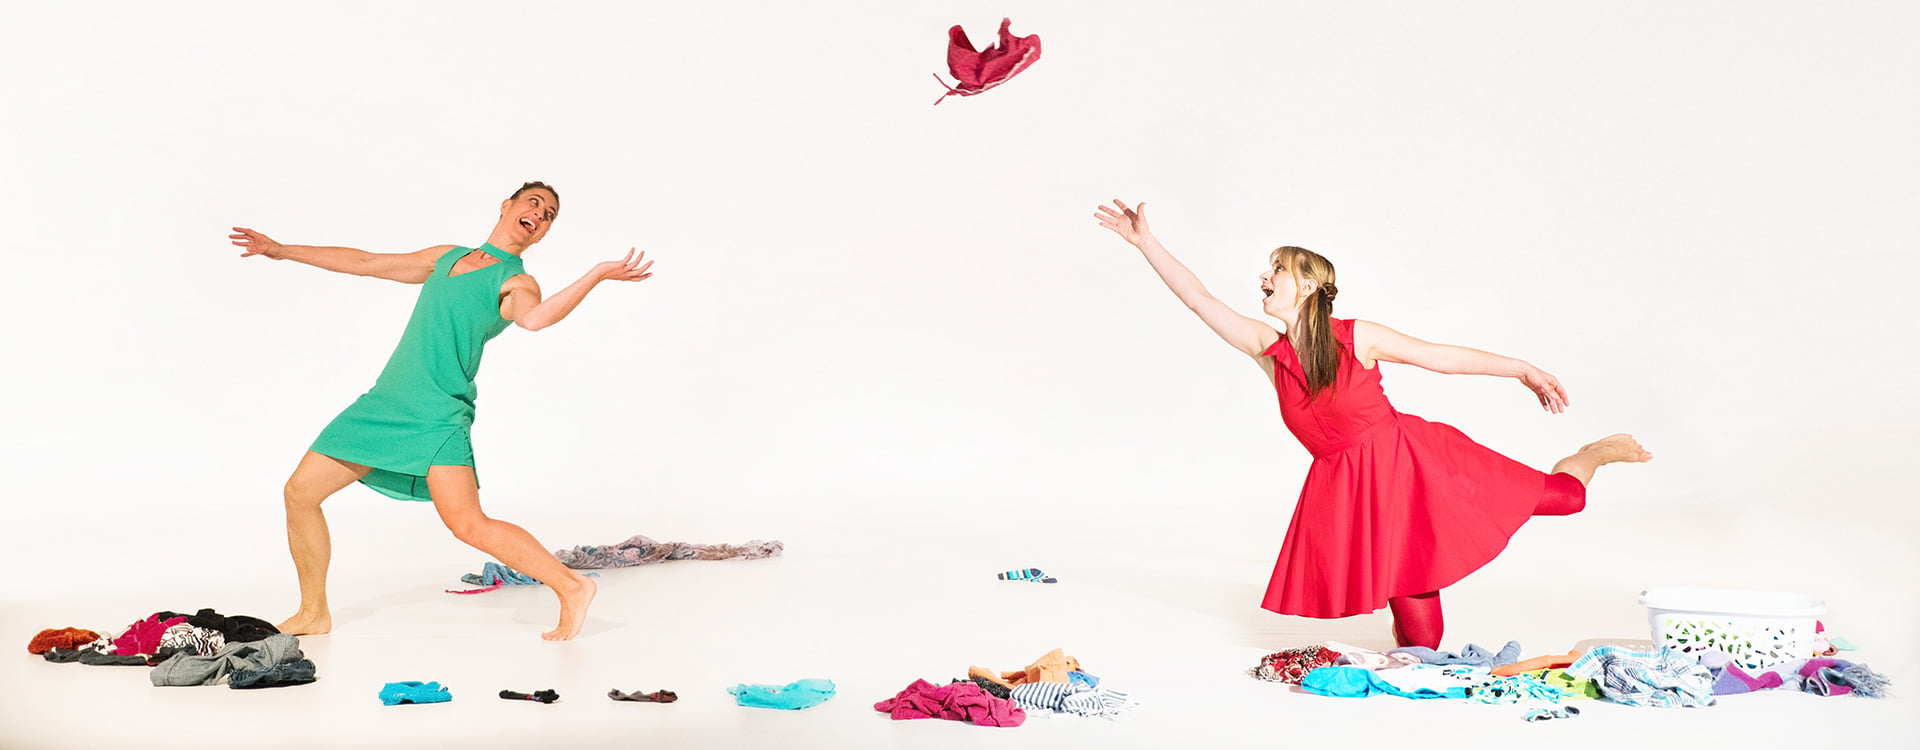
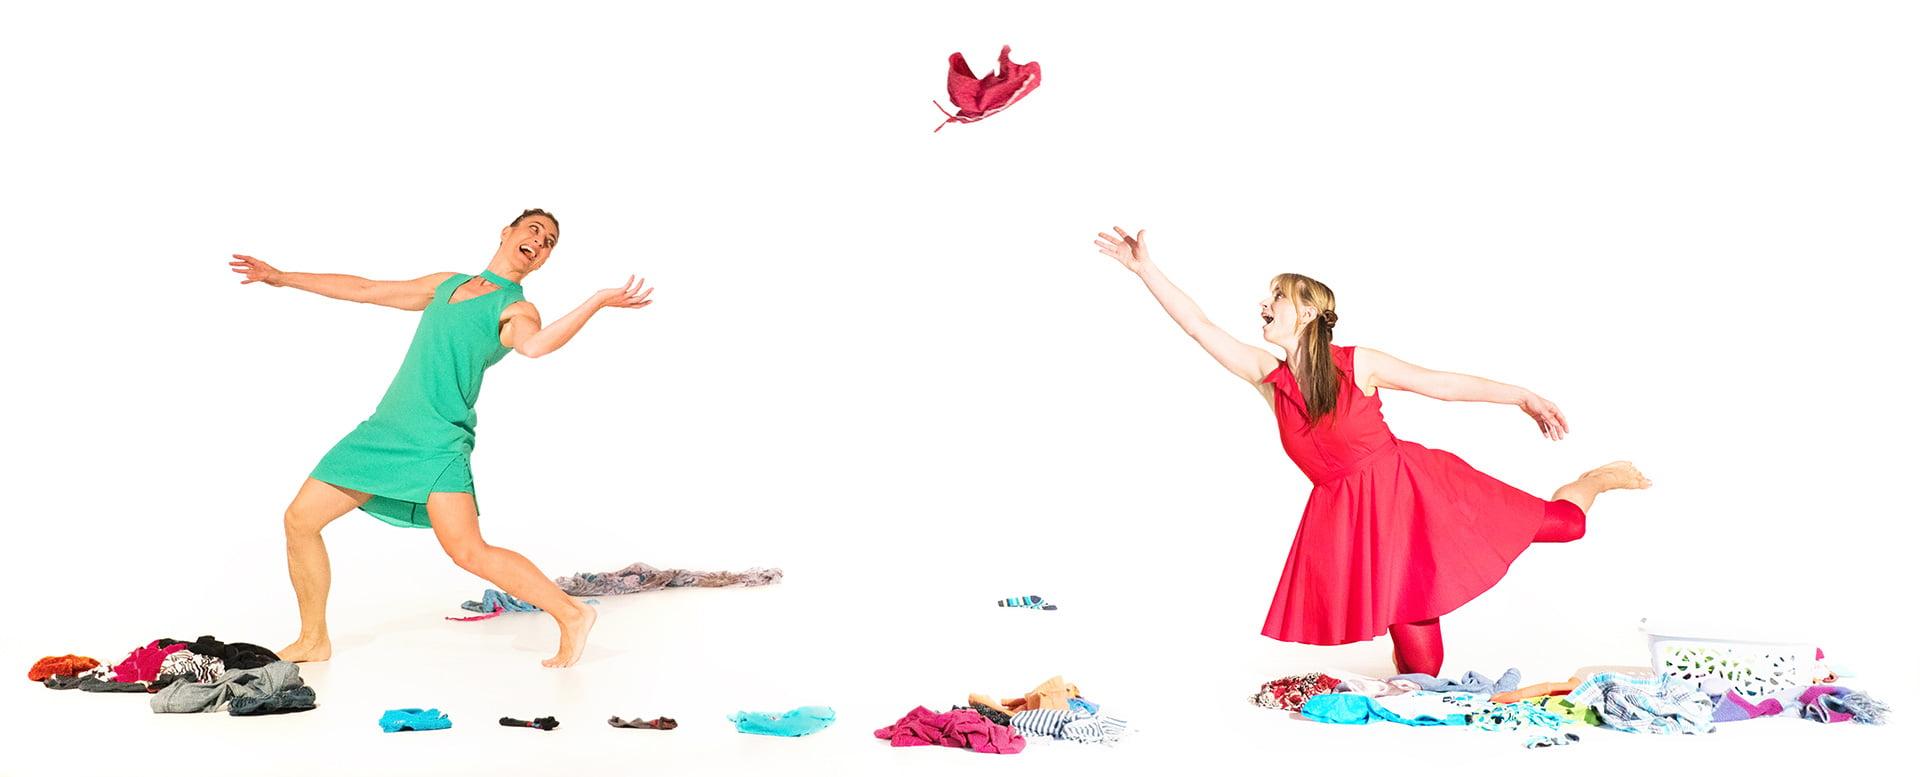
Update SPUR page:
* SPUR: Terminblock Sonntag Morgen rausgenommen
* Getanzte Vesper: Galeriebild #4 bei Pfingstvesper rausgenommen
* SPUR: Stückbeschreibung aktualisiert
* SPUR: Künstlerbeschreibungen aktualisiert und gemeinsames Portraitfoto
hinzugefügt (ich gehe davon aus, das war so gemeint?)
* SPUR: Wäschebild ausgetauscht
* SPUR: Bild Doro + Alexandra am Gong hinzugefügt (Austausch gegen das
zweimalige Tanzbild geht nicht so einfach wegen des Bildformats)
* Workshops: Plakatbild Getanztes Abendgebet eingefügt (der Text war ja
schon so da, da hat sich wohl nichts verändert)

diff --git a/projekte/spur/index.html b/projekte/spur/index.html
@@ -25,12 +25,12 @@ permalink: /projekte/spur/
             <time class="date" itemprop="startDate" datetime="2018-02-24 20:00">Sa, 24. Feb 2018 20:00 Uhr</time>
             <span class="venue" itemprop="location">KUZ Kreuz, Fulda</span>
           </div>
-          <div class="event-info">
+          <!--div class="event-info">
             <i class="fa fa-calendar-o"></i>
             <h3>Sonntag Morgen</h3>
             <time class="date" itemprop="startDate" datetime="2018-02-25 11:30">So, 25. Feb 2018 11:30 Uhr</time>
             <span class="venue" itemprop="location">KUZ Kreuz, Fulda</span>
-          </div>
+          </div-->
           <div class="event-info">
             <i class="fa fa-calendar-o"></i>
             <h3>Sonntag Nachmittag</h3>
@@ -49,50 +49,56 @@ permalink: /projekte/spur/
   <div class="container">
     <div class="row">
       <div class="col-lg-12">
-        <p>
-          Das Stück, mit dem Titel <strong>SPUR – ein Tanztheaterkonzert</strong>, recherchiert, exploriert und er-“spürt“ auf vielfältige Weise, wie sich tänzerisch, musikalisch Spuren legen, verwischen, lesen und verfolgen lassen.</p>
-          <p>Die Zuschauer dürfen wie Detektive von Anfang an verfolgen, wie Spuren in die Irre führen oder zu ganz unerwartetem Ziel. Sie können sich mitamüsieren, über die banalen Alltagspuren, die jeder kennt und lieber nicht findet, wie benutzte, liegengelassene Socken, Spuren, die man täglich zu beseitigen versucht und die sich doch immer wieder aufdrängen.</p>
-          <p>Wir erleben, wie schwer es ist – einmal eingespurt – sich auf eine neue Spur setzen zu lassen und wie atemlos uns die ständig geforderte Mehrspurigkeit unseres Lebens macht. Und kommt es nicht einer persönlichen Katastrophe gleich, die eventuell richtig wichtige, heiße Spur zu verpassen, bzw. diese im Spurenwirrwarr überhaupt erst ausfindig zu machen?</p>
-          <p>Es wird eine Welt betreten, in der Hoffen – „endlich die Spur gefunden“, Bangen – „letzte Spur?“, Gefühlschaos – „Spur der Verwüstung“, bis hin zu einem „spurlosen Verschwinden“, Spannung und innere Beteiligung garantieren.</p>
+        <p>SPUR – ein Tanztheaterkonzert, recherchiert, exploriert und er-„spürt“ auf vielfältige Weise, wie sich tänzerisch, musikalisch Spuren legen, verwischen, lesen und verfolgen lassen.</p>
+        <p>SPUR: In vier Szenen versteckt sie sich, springt sie uns an, lockt sie uns, verflüchtigt sie sich, führt sie in die Irre oder zu ganz unerwartetem Ziel.</p>
+      </div>
+    </div>
+    <div class="row">
+      <div class="col-sm-6 col-lg-8">
+        <p>Jeder kennt den täglichen Kampf die banalen Alltagspuren zu beseitigen. Wer mag sie finden, die liegengelassenen Socken, das benutzte Taschentuch oder die ersten grauen Haare? Es bleibt nur die Wahl zwischen Wahnsinn oder Ignoranz, Verdrängen oder Spiel. </p>
+        <p>Wie schwer ist doch – einmal eingespurt – sich auf eine neue Spur setzen zu lassen. Wie atemlos macht uns die ständig geforderte Mehrspurigkeit unseres Lebens. Und kommt es nicht einer persönlichen Katastrophe gleich, die eventuell richtig wichtige, heiße Spur zu verpassen, bzw. diese im Spurenwirrwarr überhaupt erst ausfindig zu machen? </p>
+      </div>
+      <div class="col-sm-6 col-lg-4">
+        <img src="{{ 'images/tanz-und-gong_medium.jpg' | prepend: page.permalink | relative_url }}" class="img-rounded">
       </div>
     </div>
     <div class="row">
       <div class="col-sm-6 col-lg-4">
-        <img src="{{ 'socke-hand_medium.jpg' | prepend: '/projekte/spur/images/' | relative_url }}" class="img-rounded">
+        <img src="{{ 'images/socke-hand_medium.jpg' | prepend: page.permalink | relative_url }}" class="img-rounded">
       </div>
       <div class="col-sm-6 col-lg-8">
-        <p>Jede Szene hinterlässt Spuren im Bühnenraum, so dass am Ende des Stückes alle Spuren zurückverfolgt werden können.</p>
-        <p>Stilistisch fließen verschiedene Mittel des Tanztheaters und Bewegungstheaters ebenso wie der Musik und des Gesangs mit ein. Dabei verschmelzen die Grenzen zwischen Bewegung und Klang. Klang ist Bewegung. Bewegung ist Klang.
-        Auf die Spur gesetzt?</p>
+        <p>Es wird eine Welt betreten, in der Hoffen – „endlich die Spur gefunden“, Bangen – „letzte Spur?“, Gefühlschaos – „Spur der Verwüstung“, bis hin zu einem „spurlosen Verschwinden“, Spannung und innere Beteiligung garantieren.</p>
+        <p>Stilistisch fließen verschiedene Mittel des Tanztheaters und Bewegungstheaters ebenso wie der Musik und des Gesangs mit ein. Dabei verschmelzen die Grenzen zwischen Bewegung und Klang. Klang ist Bewegung. Bewegung ist Klang.</p>
+        <p>Eine spannende Suche – oder eher Flucht – verspricht diese Tanz-Klang-Performance.</p>
       </div>
     </div>
-    <div class="row">
+    <!--div class="row">
       <div class="col-lg-12">
-        <a href="{{ '/flyer.pdf' | prepend: page.permalink | relative_url }}" class="btn btn-primary">Flyer downloaden</a>
+        <a href="{{ 'flyer.pdf' | prepend: page.permalink | relative_url }}" class="btn btn-primary">Flyer downloaden</a>
       </div>
-    </div>
+    </div-->
   </div>
 </section>
 
-<section class="cover" class="parallax-window" data-parallax="scroll" data-image-src="/projekte/spur/images/socke.jpg" >
+<section class="cover" class="parallax-window" data-parallax="scroll" data-image-src="{{ 'images/socke.jpg' | prepend: page.permalink | relative_url }}" >
 </section>
 
 <section>
   <div class="container">
     <div class="row">
       <div class="col-lg-12">
-        <img src="{{ 'wurf.jpg' | prepend: '/projekte/spur/images/' | relative_url }}" class="img-rounded">
+        <img src="{{ 'images/wurf.jpg' | prepend: page.permalink | relative_url }}" class="img-rounded">
       </div>
     </div>
     <div class="row">
       <div class="col-xs-4">
-        <img src="{{ 'sprung_medium.jpg' | prepend: '/projekte/spur/images/' | relative_url }}" class="img-rounded">
+        <img src="{{ 'images/sprung_medium.jpg' | prepend: page.permalink | relative_url }}" class="img-rounded">
       </div>
       <div class="col-xs-4">
-        <img src="{{ 'spritz_medium.jpg' | prepend: '/projekte/spur/images/' | relative_url }}" class="img-rounded">
+        <img src="{{ 'images/spritz_medium.jpg' | prepend: page.permalink | relative_url }}" class="img-rounded">
       </div>
       <div class="col-xs-4">
-        <img src="{{ 'wrap_medium.jpg' | prepend: '/projekte/spur/images/' | relative_url }}" class="img-rounded">
+        <img src="{{ 'images/wrap_medium.jpg' | prepend: page.permalink | relative_url }}" class="img-rounded">
       </div>
     </div>
   </div>
@@ -107,13 +113,18 @@ permalink: /projekte/spur/
     </div>
 
     <div class="row">
-      <div class="col-lg-8">
+      <div class="col-sm-12 text-center">
+        <img src="{{ 'images/künstlerinnen.jpg' | prepend: page.permalink | relative_url }}" style="max-height: 20em;" class="img-rounded img-responsive-width">
+      </div>
+    </div>
+    <div class="row">
+      <div class="col-md-6">
         <p>
-          <strong>Dorothée Bretz</strong> absolvierte ihr Studium für Bühnentanz an der Hochschule für Musik und Darstellende Kunst in Frankfurt und für Spiel-Musik-Tanz/ Bewegungstheater, Tanzpädagogik und -improvisation an der Deutschen Sporthochschule Köln, sowie Physical Theatre an der Desmond Jones School for Mime, London. Sie erhielt Engagements an der Frankfurter Oper, Eternia Danstheater Schweden und der Xaris Dance Company internat., bei der sie auch Laila Clematide und Deborah Smith-Wicke kennenlernte und auch selbst anfing zu choreographieren. Kunstübergreifende Projekte zu entwickeln, reizt sie besonders wie z.B. bei der multimedialen Tanz- und Theaterproduktion „Vrijgekocht“ in den Niederlanden oder der „Getanzten Vesper im Advent“ hier in Fulda. Sie unterrichtet Tanz in Schulen und gibt Workshops im In- und Ausland. 2013 gründete sie tanzblick Freies Tanztheater als einen Schritt Tanztheater und zeitgenössischen Tanz in der Region mehr sichtbar werden zu lassen.
+          <strong>Dorothée Bretz</strong> absolvierte ihr Studium für Bühnentanz an der Hochschule für Musik und Darstellende Kunst in Frankfurt und für Spiel-Musik-Tanz/ Bewegungstheater, Tanzpädagogik und -improvisation an der Deutschen Sporthochschule Köln, sowie Physical Theatre an der Desmond Jones School for Mime, London. Sie erhielt Engagements an der Frankfurter Oper, Eternia Danstheater Schweden und der Xaris Dance Company internat., bei der sie anfing eigene Choreographien zu entwickeln. Kunstübergreifende Projekte reizen sie besonders wie z.B. bei der multimedialen Tanz- und Theaterproduktion „Vrijgekocht“ in den Niederlanden oder der „Getanzten Vesper im Advent“ hier in Fulda. Sie unterrichtet Tanz in Schulen und gibt Workshops im In- und Ausland. 2013 gründete sie tanzblick Freies Tanztheater.
         </p>
       </div>
-      <div class="col-lg-4 text-center">
-        <img src="{{ '/dorothee-bretz.jpg' | prepend: '/images/person' | relative_url }}" style="max-height: 20em;" class="img-rounded img-responsive-width">
+      <div class="col-md6">
+        <p><strong>Alexandra Pesold</strong> studierte an der Universität „Mozarteum“ Salzburg und absolvierte mit Mag. Art. für Musik und Tanz. Seit vielen Jahren beschäftigt sie sich intensiv mit Gesang, Klang und Musik aus verschiedenen Kulturen und Epochen. Ihre Freude am Gestalten entfaltet sich in der Verbindung von Stimme, Bewegung und Klang und dem Zusammenspiel von Komposition und Improvisation. Mit dem internationalen Obertonvokalensemble „Harmonic Connection“ gastierte sie u.a. in Deutschland, Tschechien und Österreich. Als Solistin und in Ensembles konzertiert sie deutschlandweit und unterrichtet u.a. bei den Fuldaer Chören am Dom.</p>
       </div>
     </div>
   </div>
@@ -122,12 +133,9 @@ permalink: /projekte/spur/
 <section class="bg-light-gray">
   <div class="container">
     <div class="row">
-      <div class="col-lg-8">
-        <p><strong>Alexandra Pesold</strong></p>
-      </div>
-      <div class="col-lg-4 text-center">
-        <img src="{{ '' | prepend: '/projekte/spur' | relative_url }}" class="img-rounded img-responsive-width">
-      </div>
+      <!--div class="col-lg-4 text-center">
+        <img src="{{ '/alexandra-pesold.jpg' | prepend: '/projekte/spur' | relative_url }}" class="img-rounded img-responsive-width">
+      </div-->
     </div>
   </div>
 </section>

diff --git a/workshops/index.html b/workshops/index.html
@@ -46,7 +46,7 @@ path: /workshops
         <p>Anmeldungen per E-Mail sind möglich unter: <a href="mailto:Martin-Denise@gmx.de">Martin-Denise@gmx.de</a> oder telefonisch unter: 06659 / 619697.</p>
       </div>
       <div class="col-lg-4">
-        <img src="{{ '/jugendliche-getanzte-vesper_medium.jpg' | prepend: '/images' | prepend: page.path | relative_url }}" itemprop="image" class="cover-title-image">
+        <img src="{{ '/2017-12-03-getanztes-abendgebet-plakat_medium.jpg' | prepend: '/images' | prepend: page.path | relative_url }}" itemprop="image" class="cover-title-image">
       </div>
     </div>
   </div>

diff --git a/projekte/getanzte-vesper/index.html b/projekte/getanzte-vesper/index.html
@@ -172,7 +172,10 @@ path: /projekte/getanzte-vesper
     data-width="100%"
     data-ratio="1920/1080"
     data-maxheight="100%">
-  {% for i in (1..22) %}
+  {% for i in (1..3) %}
+  <img src="{{ page.path | relative_url }}/images/getanzte-vesper-2016-{{ i }}.jpg">
+  {% endfor %}
+  {% for i in (5..22) %}
   <img src="{{ page.path | relative_url }}/images/getanzte-vesper-2016-{{ i }}.jpg">
   {% endfor %}
   {% for i in (1..3) %}
